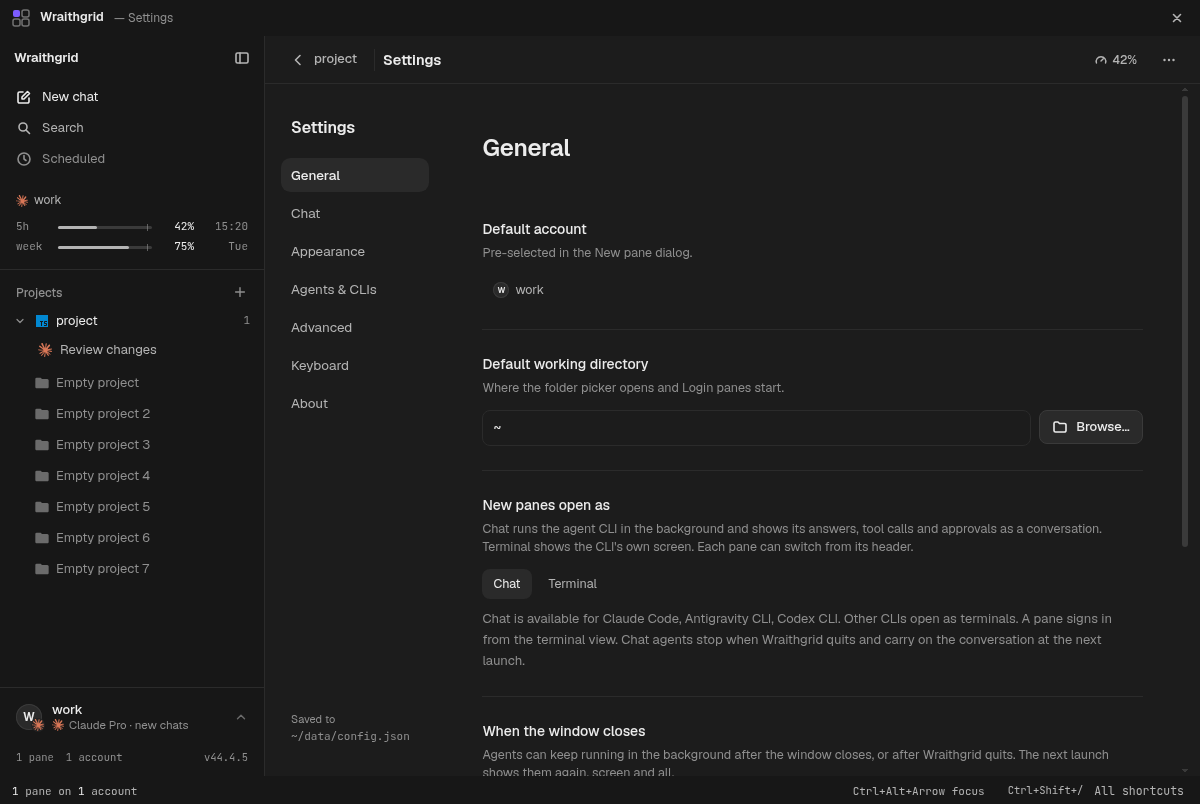
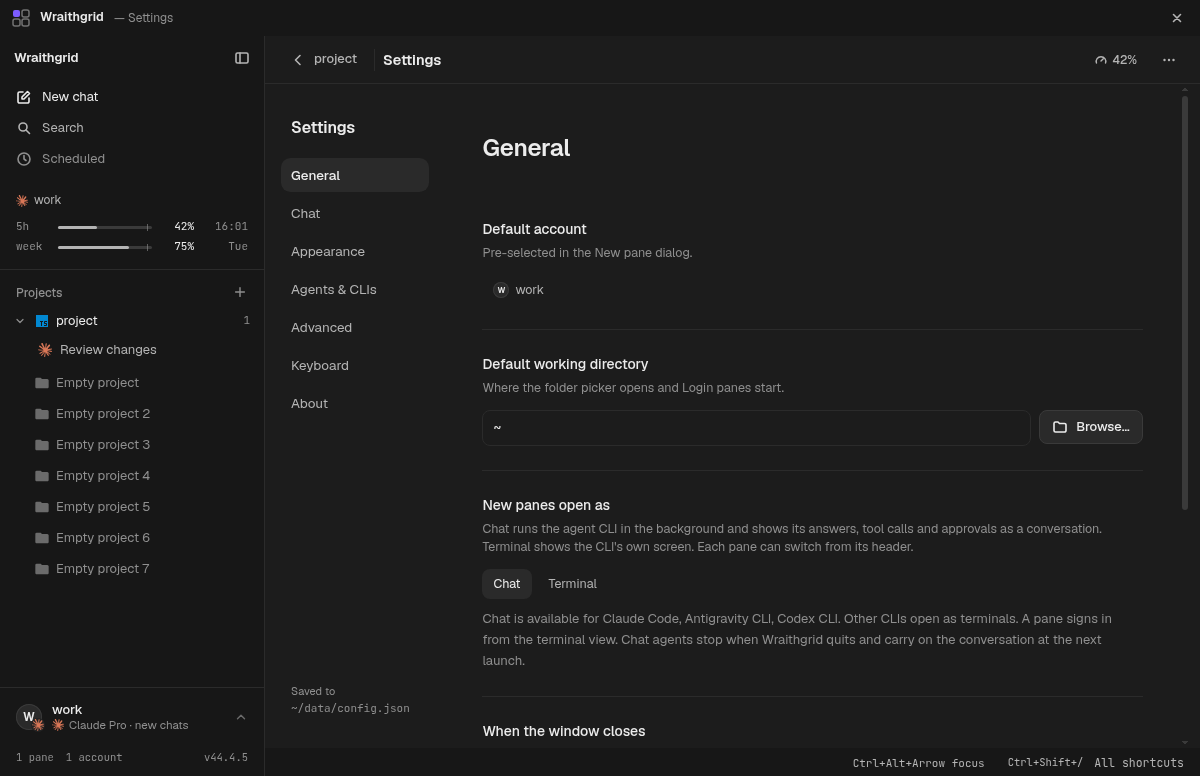
fix(ui): show pane counts once in the sidebar footer

diff --git a/tests/e2e/ui-design.spec.ts b/tests/e2e/ui-design.spec.ts
@@ -138,6 +138,13 @@ for (const theme of ['wraith', 'midnight', 'clay', 'daylight', 'paper', 'communi
           await win.evaluate(() => document.documentElement.style.getPropertyValue('--bg'))
         ).toBe('#172026')
       await expect(side.locator('.side-meta')).toHaveText(/1 pane\s*1 account\s*v/)
+      // Counts belong to the sidebar footer once; the content's status bar ends beside it.
+      await expect(win.locator('.sbar')).not.toContainText(/\bpanes?\b|\baccounts?\b/)
+      const footerBottoms = await win.evaluate(() => [
+        document.querySelector('.side-ft')!.getBoundingClientRect().bottom,
+        document.querySelector('.main .sbar')!.getBoundingClientRect().bottom
+      ])
+      expect(Math.abs(footerBottoms[0]! - footerBottoms[1]!)).toBeLessThanOrEqual(1)
       await expect(side.locator('.side-chat .provider-logo')).toHaveCount(1)
       await expect(side.locator('.su-hd .provider-logo')).toHaveCount(1)
       await expect(win.locator('.chat-host')).toBeVisible()
@@ -152,7 +159,7 @@ for (const theme of ['wraith', 'midnight', 'clay', 'daylight', 'paper', 'communi
       if (theme === 'wraith' && process.env.WRAITHGRID_SIDEBAR_REFERENCE) {
         await expect(side.locator('.su-win')).toHaveCount(2)
         await app.evaluate(({ BrowserWindow }) =>
-          BrowserWindow.getAllWindows()[0]!.setSize(1200, 804)
+          BrowserWindow.getAllWindows()[0]!.setSize(1200, 776)
         )
         const nextWindow = app.waitForEvent('window')
         await app.evaluate(async ({ BrowserWindow }, file) => {

diff --git a/src/renderer/components/StatusBar.tsx b/src/renderer/components/StatusBar.tsx
@@ -1,11 +1,8 @@
 import { useActions, useApp } from '../app/services'
-import { activeWorkspace } from '../app/store'
 import { SHORTCUT_HINT } from '../app/shortcuts'
 
 export function StatusBar() {
   const actions = useActions()
-  const ws = useApp(activeWorkspace)
-  const accountCount = new Set(ws.panes.flatMap((p) => (p.accountId ? [p.accountId] : []))).size
   const update = useApp((s) =>
     s.update.result?.status === 'available' ? s.update.result.latest.version : null
   )
@@ -14,15 +11,6 @@ export function StatusBar() {
 
   return (
     <footer className="sbar">
-      <span>
-        <b>{ws.panes.length}</b> {ws.panes.length === 1 ? 'pane' : 'panes'}
-        {accountCount > 0 ? (
-          <>
-            {' '}
-            on <b>{accountCount}</b> {accountCount === 1 ? 'account' : 'accounts'}
-          </>
-        ) : null}
-      </span>
       <span className="sp" />
       {updatedTo ? (
         <span className="upd-done">

diff --git a/src/renderer/app/App.tsx b/src/renderer/app/App.tsx
@@ -207,10 +207,10 @@ export function App() {
               {view === 'settings' ? <SettingsView /> : null}
             </div>
           </div>
+          <StatusBar />
         </main>
         {diffOpen ? <DiffPanel /> : null}
       </div>
-      <StatusBar />
       <ZoomBadge />
       <Modals />
     </div>

diff --git a/docs/CONTEXT.md b/docs/CONTEXT.md
@@ -132,7 +132,7 @@ react-resizable-panels, @dnd-kit. Tests: Vitest (unit), Playwright (Electron e2e
 - Chat mode = claude's permission mode: live via `set_permission_mode` (values `default|acceptEdits|plan|auto|dontAsk|bypassPermissions`; the start flag takes the same except `default`, which is omitted); claude reports the mode in force in `system` init/status, and `pane.chatMode` follows it. Auto only where the model says `supportsAutoMode`. Live switch to bypass needs `--allow-dangerously-skip-permissions` at start (always passed), else claude answers `bypass_not_launched`. Fast mode is not offered: headless claude needs an SDK opt-in.
 - The message box is a combobox once the CLI lists commands: e2e find it with `getByLabel('Message', { exact: true })`, not the textbox role. Commands come from claude's `initialize` answer (no tokens); terminal-only names from its first `system/init`, so they show after the first turn.
 - Ctrl+=/-/0 zoom the whole app (`uiZoom`, `webFrame.setZoomFactor` in preload), not the terminal font.
-- Top bar has no Settings/Mods/Shortcuts buttons: e2e click `More` then the menuitem. Sidebar and `.main` are flat areas separated by a 1px resizer (#75); dialogs and menus alone use popover elevation.
+- Top bar has no Settings/Mods/Shortcuts buttons: e2e click `More` then the menuitem. Sidebar and `.main` are flat areas separated by a 1px resizer (#75); pane/account counts live only in the sidebar footer, while StatusBar (shortcuts/updates) sits inside main so both footers reach the window bottom. Dialogs/menus alone use popover elevation.
 - Login button: claude accounts get LoginDialog (`login:*` IPC, fake claude handles `auth login`/`auth status`, code `good-code`); other CLIs and "Use a terminal instead" = `loginInTerminal` (the old pane). Chat attachments: picked/dropped non-images are sent as an "Attached files:" path list for claude's Read tool; drag-drop paths come from preload `webUtils.getPathForFile`.
 - Fake claude (`fake-claude-chat.sh`) appends each user turn to `$CLAUDE_CONFIG_DIR/projects/<cwd with non-alnum → ->/<sid>.jsonl`, like real claude; `--resume X` answers as session `resumed-X`.
 - Empty sidebar projects use `proj-empty`: `.empty` is the full-page centered layout, not a state marker. Verify eight-project row alignment/height in `ui-design.spec.ts`; `WRAITHGRID_SIDEBAR_REFERENCE` optionally compares geometry directly with the approved local sidebar-v3.html.

diff --git a/CHANGELOG.md b/CHANGELOG.md
@@ -2,6 +2,7 @@
 
 ## 2026-10-24
 
+- [fix] Pane/account counts appear only in the sidebar footer; the shortcut/update bar sits inside the main content so it no longer adds a duplicate row beneath the sidebar (files: src/renderer/components/StatusBar.tsx, src/renderer/app/App.tsx, tests/e2e/ui-design.spec.ts, docs/{CONTEXT,TODO,UI-75}.md, docs/ui-75/*.png)
 - [fix] Empty projects no longer inherit the full-page `.empty` layout; sidebar row heights, indentation, Usage and footer spacing now match sidebar-v3.html, with an eight-project regression and optional direct mockup comparison (files: src/renderer/components/{Sidebar,icons}.tsx, src/renderer/styles/{sidebar,ui}.css, tests/e2e/ui-design.spec.ts, docs/{CONTEXT,DECISIONS,TODO,UI-75}.md, docs/ui-75/*.png)
 - [ui] Complete the whole-app v3.4 pass (#75): shared page/type/motion rhythm, flat chrome and pane headers, unboxed Usage, themed listboxes/controls, remaining sidebar identity/rail/footer, and global reduced-motion support (files: src/renderer/styles/{tokens,polish,ui}.css, src/renderer/main.tsx, src/renderer/components/{Select,Sidebar,UsageView,SettingsView,ThemeEditor,CommunityThemes}.tsx, tests/e2e/{ui-design,chat,usage}.spec.ts, docs/{UI-75,CONTEXT,DECISIONS,TODO}.md, docs/ui-75/*.png)
 - [chat] All-provider account picker with search/keyboard, offline provider marks, confirmed cross-CLI text handoffs preserving the source in History, collapsed handoff rows and 30px flat composer chips (#78) (files: src/shared/agent-clis.ts, src/renderer/app/store.ts, src/renderer/components/{ProviderLogo,AccountIcon,AccountsView,Sidebar,SwitchAccountDialog,UsageView}.tsx, src/renderer/components/chat/{ChatView,Composer,ModelPicker}.tsx, src/renderer/lib/{chat-handoff,chat-thread,chat-bus}.ts, src/renderer/lib/provider-logos.json, src/renderer/styles/polish.css, scripts/gen-provider-logos.mjs, tests/unit/chat-handoff.test.ts, tests/e2e/{chat-handoff,chat-codex,chat-agy}.spec.ts, docs/{CONTEXT,DECISIONS,TODO,PROVIDER-LOGOS}.md, docs/licenses/*.txt, docs/ARCHITECTURE.md, electron-builder.yml)

diff --git a/docs/TODO.md b/docs/TODO.md
@@ -39,6 +39,7 @@ H1–H7 released in v1.10.0; H8 publishing needs the accounts (Now).
 - `agy`/opencode per-account isolation if they gain a config-dir variable
 
 ## Done (2026-10-24)
+- #75 footer: remove duplicate status-bar counts and place the shortcut/update bar inside main; sidebar footer ends at the window bottom.
 - #75 correction: empty-project CSS collision fixed; exact sidebar-v3 row rhythm and eight-project alignment/height covered; Scheduled navigation is disabled pending #77.
 - #75: remaining whole-app v3.4 pass implemented across pages/chrome/panes/controls/dialogs/menus; complete sidebar identity/rail/footer, theme references and screen audit (docs/UI-75.md); five built-ins plus community theme and reduced motion covered. Scheduled remains #77.
 - #78: all-provider account picker, offline marks/fallbacks, confirmed cross-CLI visible-text handoff with source in History, collapsed row, larger flat chips and folder/branch below; fake-CLI e2e in dark/light, same-CLI/shared-login and terminal flows

diff --git a/docs/UI-75.md b/docs/UI-75.md
@@ -41,7 +41,7 @@ installed Wraithgrid version. This pass does not cut a release.
 
 | Area | Result |
 | --- | --- |
-| Window/title/top bar | Blended chrome, plain mono counts, flat view controls |
+| Window/title/top bar | Blended chrome, plain mono counts, flat view controls; shortcut/update bar stays inside main, with no duplicate count line under the sidebar |
 | Sidebar | Brand header, hover shortcuts, provider marks on chat/Usage, project counts and empty states, icon rail with working pulse, flat account footer and version/count line |
 | Grid/chat/terminal | Flat focused header, one separator between panes, smooth layout changes, quiet composer and theme-owned message colour |
 | Projects | Reading width, spacious text rows, shared title/search/delete controls |
